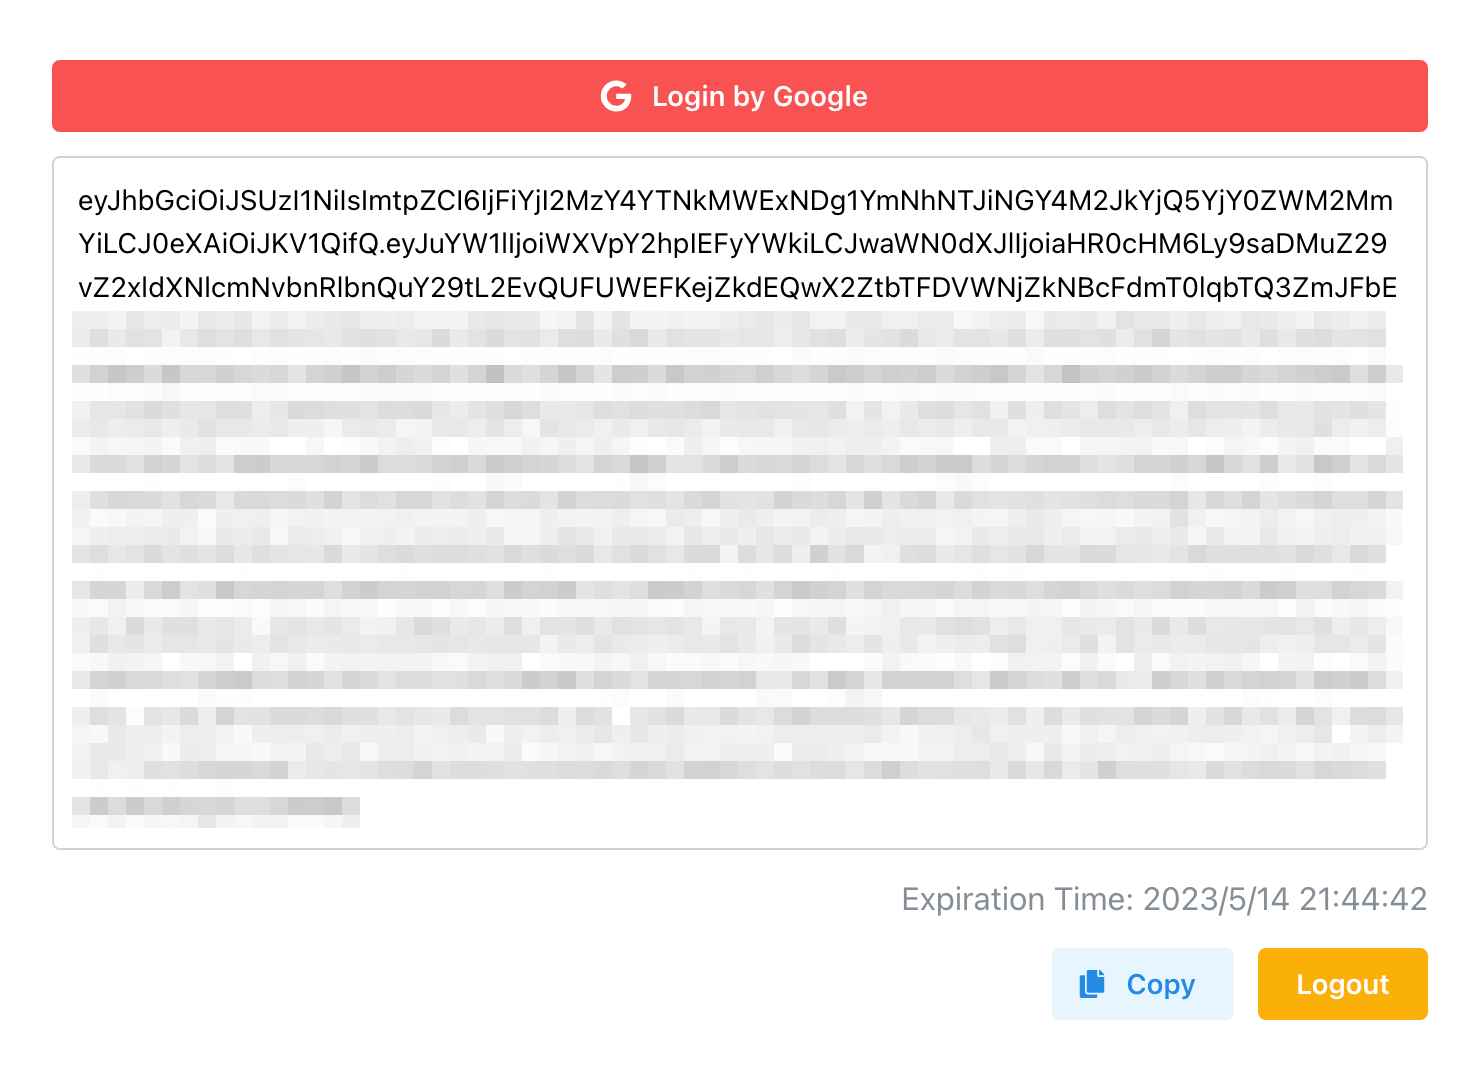
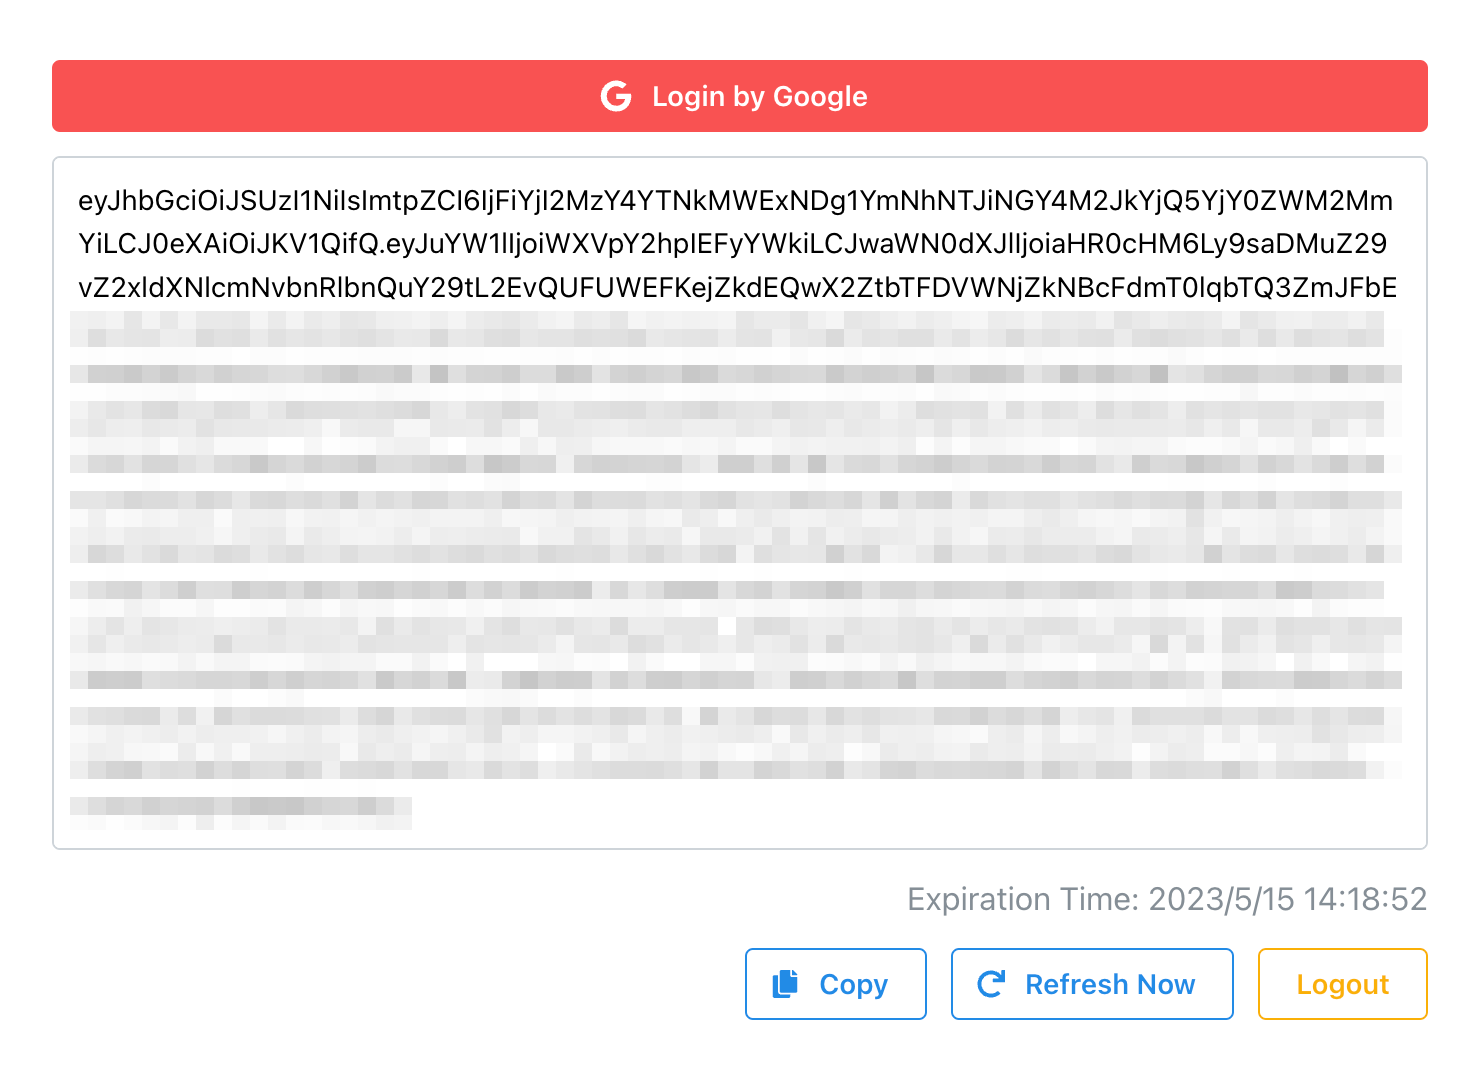
更新ボタンを追加

diff --git a/src/components/App.tsx b/src/components/App.tsx
@@ -7,13 +7,13 @@ import {
 	CopyButton,
 	Text,
 } from "@mantine/core";
-import { FaCheck, FaCopy, FaGoogle } from "react-icons/fa";
+import { FaCheck, FaCopy, FaGoogle, FaRedo } from "react-icons/fa";
 import { useAuthState } from "@/hooks/useAuthState";
 import Popconfirm from "@/components/Popconfirm";
 import GitHubCorner from "@/components/GitHubCorner";
 
 function App() {
-	const [user, loading] = useAuthState(auth);
+	const [user, refresh, loading] = useAuthState(auth);
 
 	return (
 		<Container py={30} size="sm">
@@ -42,7 +42,7 @@ function App() {
 							<CopyButton value={user.accessToken}>
 								{({ copied, copy }) => (
 									<Button
-										variant="light"
+										variant="outline"
 										color={copied ? "teal" : "blue"}
 										onClick={copy}
 										leftIcon={copied ? <FaCheck /> : <FaCopy />}
@@ -51,11 +51,16 @@ function App() {
 									</Button>
 								)}
 							</CopyButton>
+							<Button variant="outline" onClick={refresh} leftIcon={<FaRedo />}>
+								Refresh Now
+							</Button>
 							<Popconfirm
 								title="Are you sure you want to log out?"
 								onOk={logout}
 							>
-								<Button color="yellow">Logout</Button>
+								<Button variant="outline" color="yellow">
+									Logout
+								</Button>
 							</Popconfirm>
 						</Flex>
 					</>

diff --git a/src/hooks/useAuthState.ts b/src/hooks/useAuthState.ts
@@ -1,6 +1,6 @@
 import { useIdToken } from "react-firebase-hooks/auth";
 import { type Auth, type User } from "firebase/auth";
-import { useEffect } from "react";
+import { useCallback, useEffect } from "react";
 
 type AuthUser = User & {
 	accessToken: string;
@@ -11,7 +11,7 @@ type AuthUser = User & {
 
 export const useAuthState = (
 	auth: Auth,
-): [AuthUser | undefined, boolean, Error | undefined] => {
+): [AuthUser | undefined, () => void, boolean, Error | undefined] => {
 	const [user, loading, error] = useIdToken(auth);
 
 	// https://github.com/CSFrequency/react-firebase-hooks/issues/299
@@ -30,5 +30,9 @@ export const useAuthState = (
 		}
 	}, [user]);
 
-	return [user as AuthUser, loading, error];
+	const refreshNow = useCallback(() => {
+		user?.getIdToken(true).catch(console.error);
+	}, [user]);
+
+	return [user as AuthUser, refreshNow, loading, error];
 };
